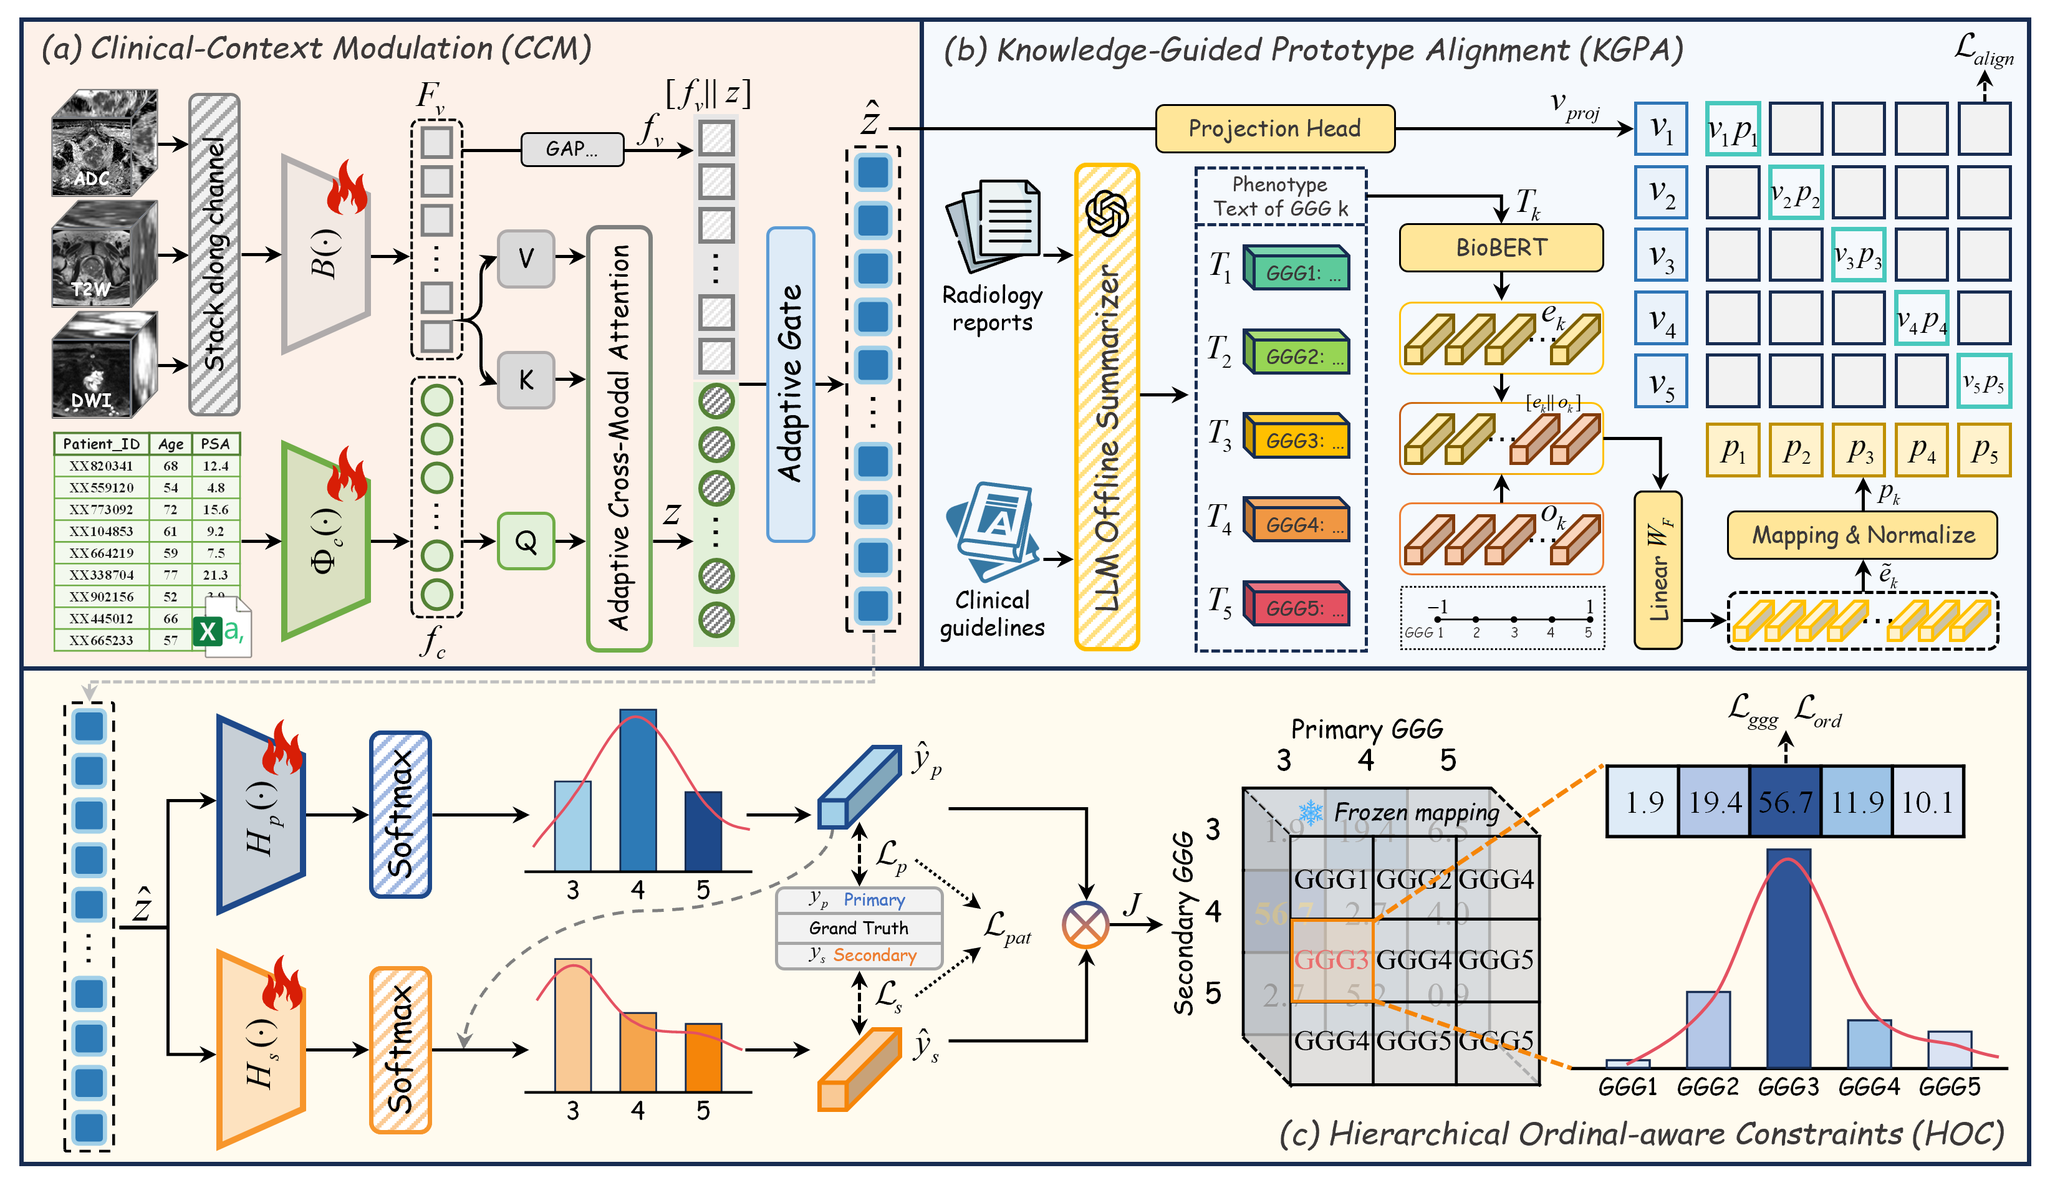
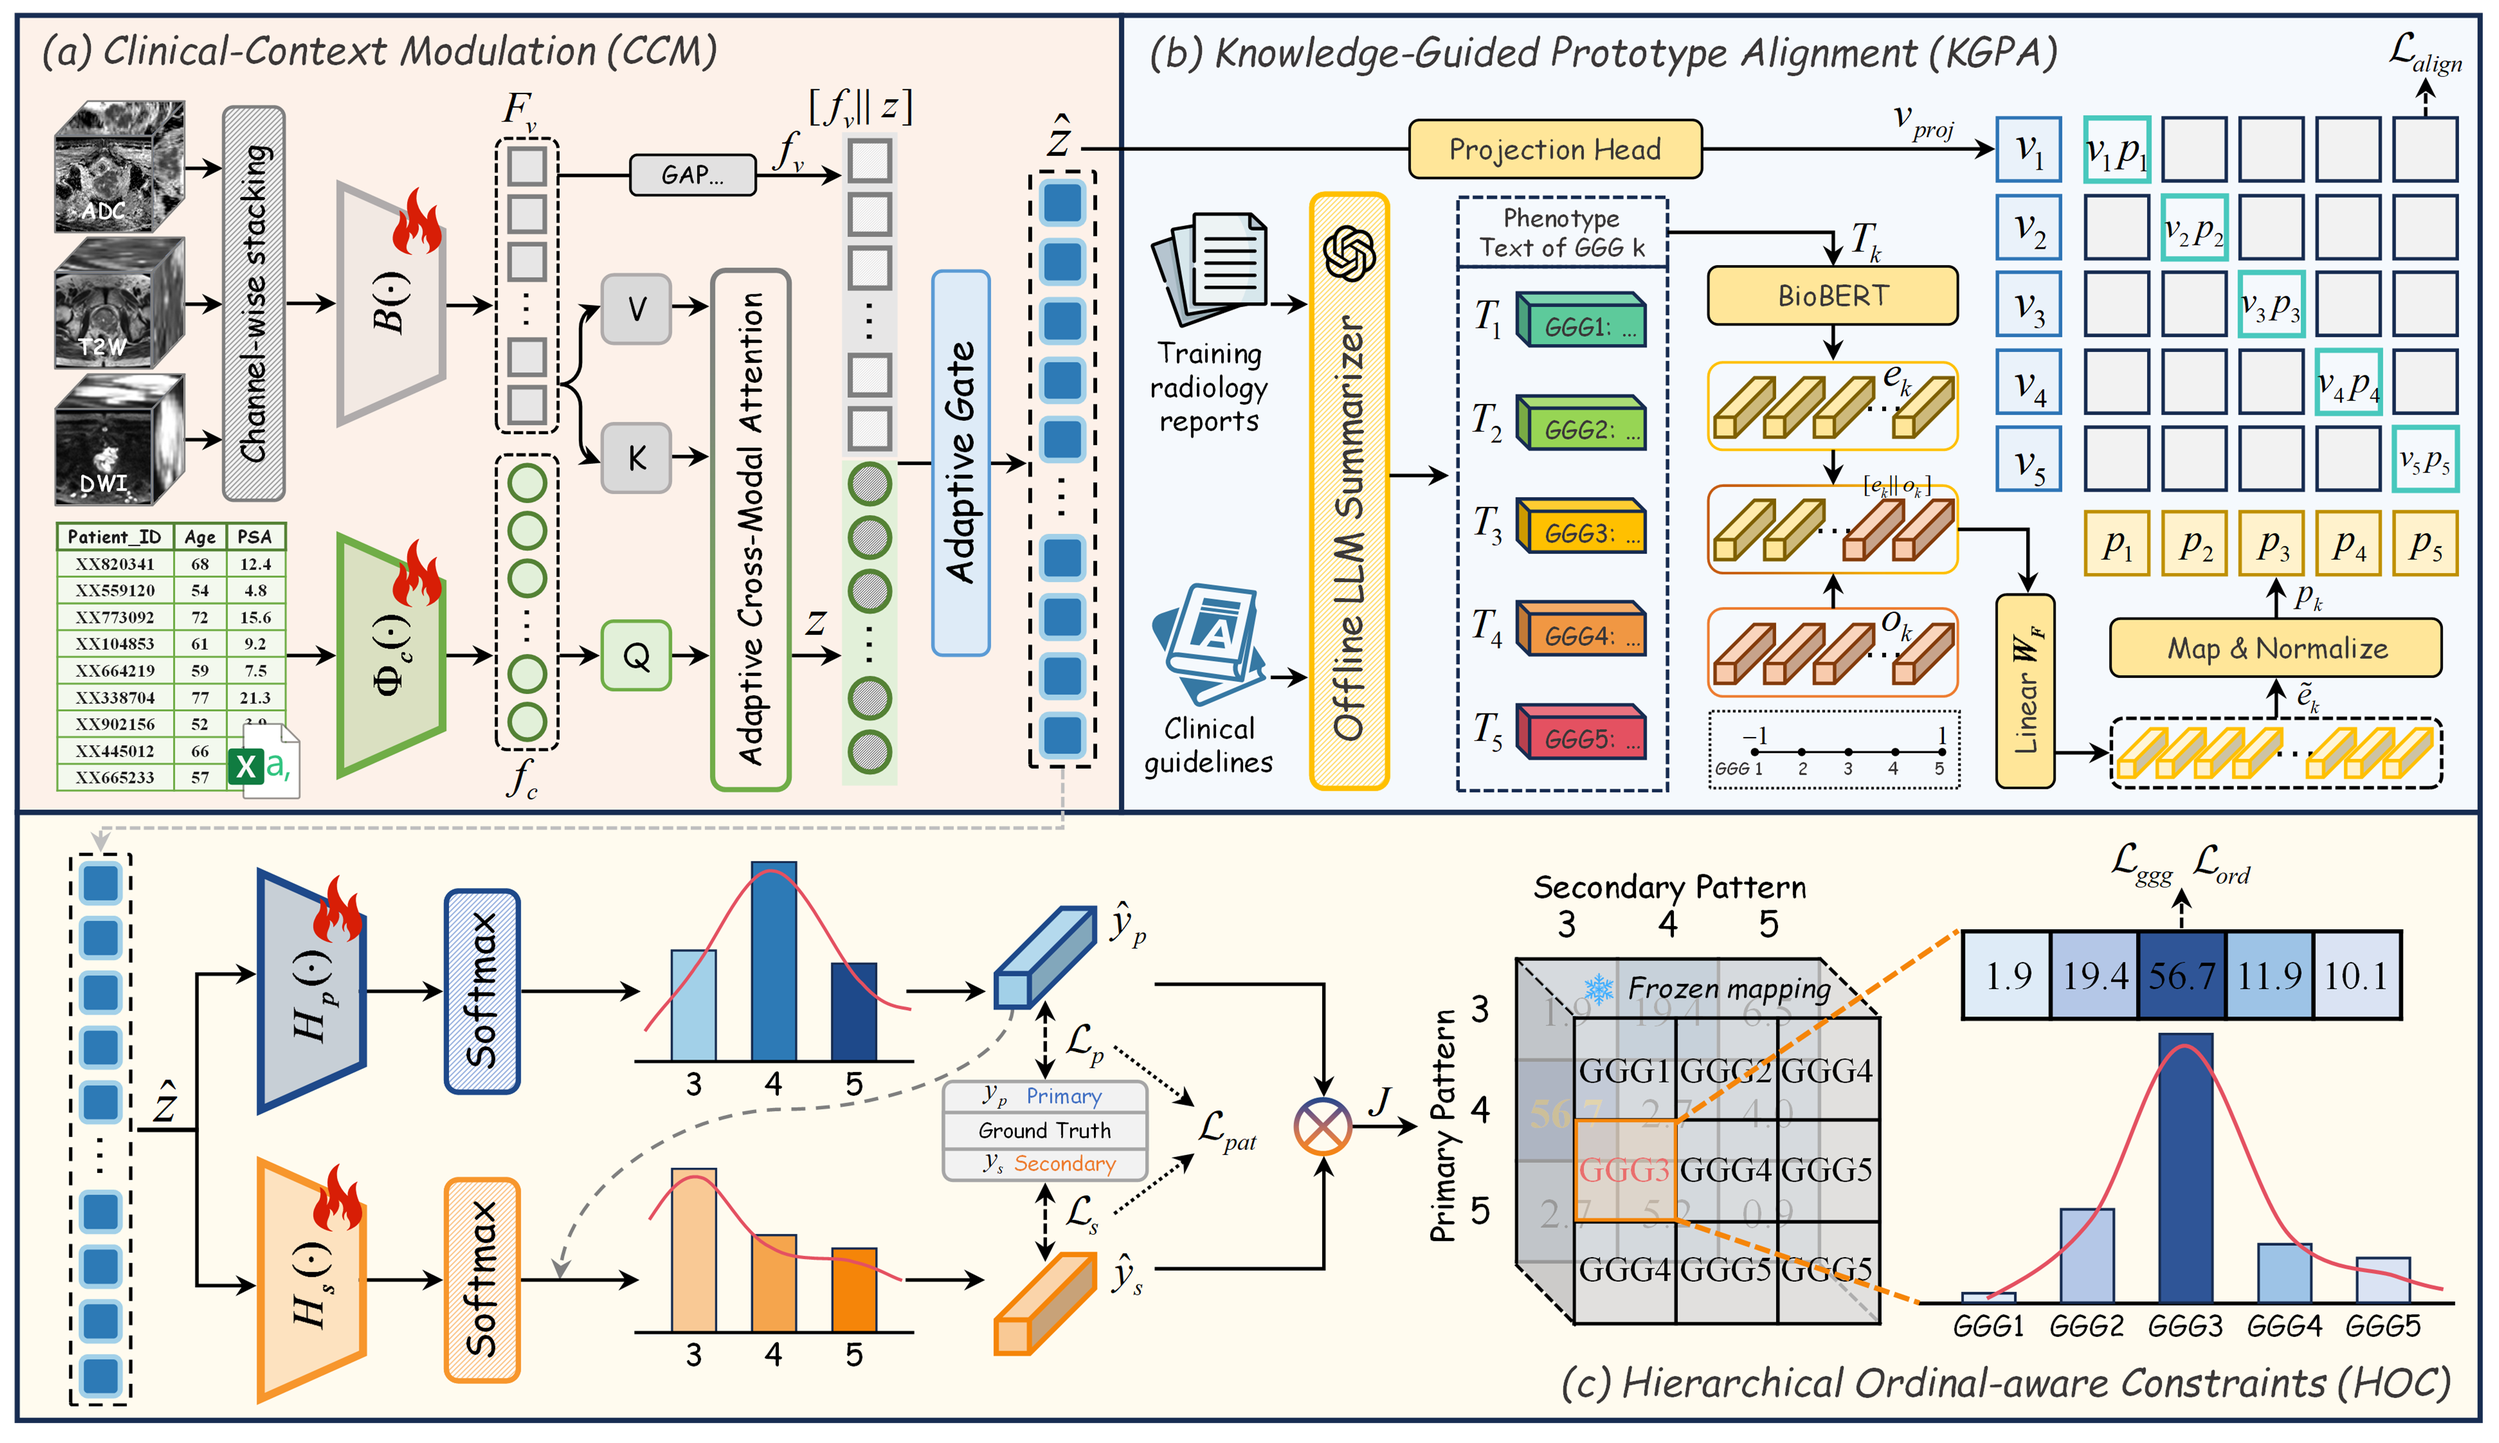
Update readme

Changed region(s): [[0.0, 0.0, 1.0, 0.9947]]

diff --git a/README.md b/README.md
@@ -1,5 +1,7 @@
 # KOAL: Knowledge-Driven Prostate Cancer Grading with Ordinal-Aware Learning
 
+[![arXiv](https://img.shields.io/badge/arXiv-2503.06948-b31b1b.svg)](https://arxiv.org/abs/2607.06019)
+
 KOAL is coming soon.
 
 ![KOAL framework](assets/images/koal-preview.png)
